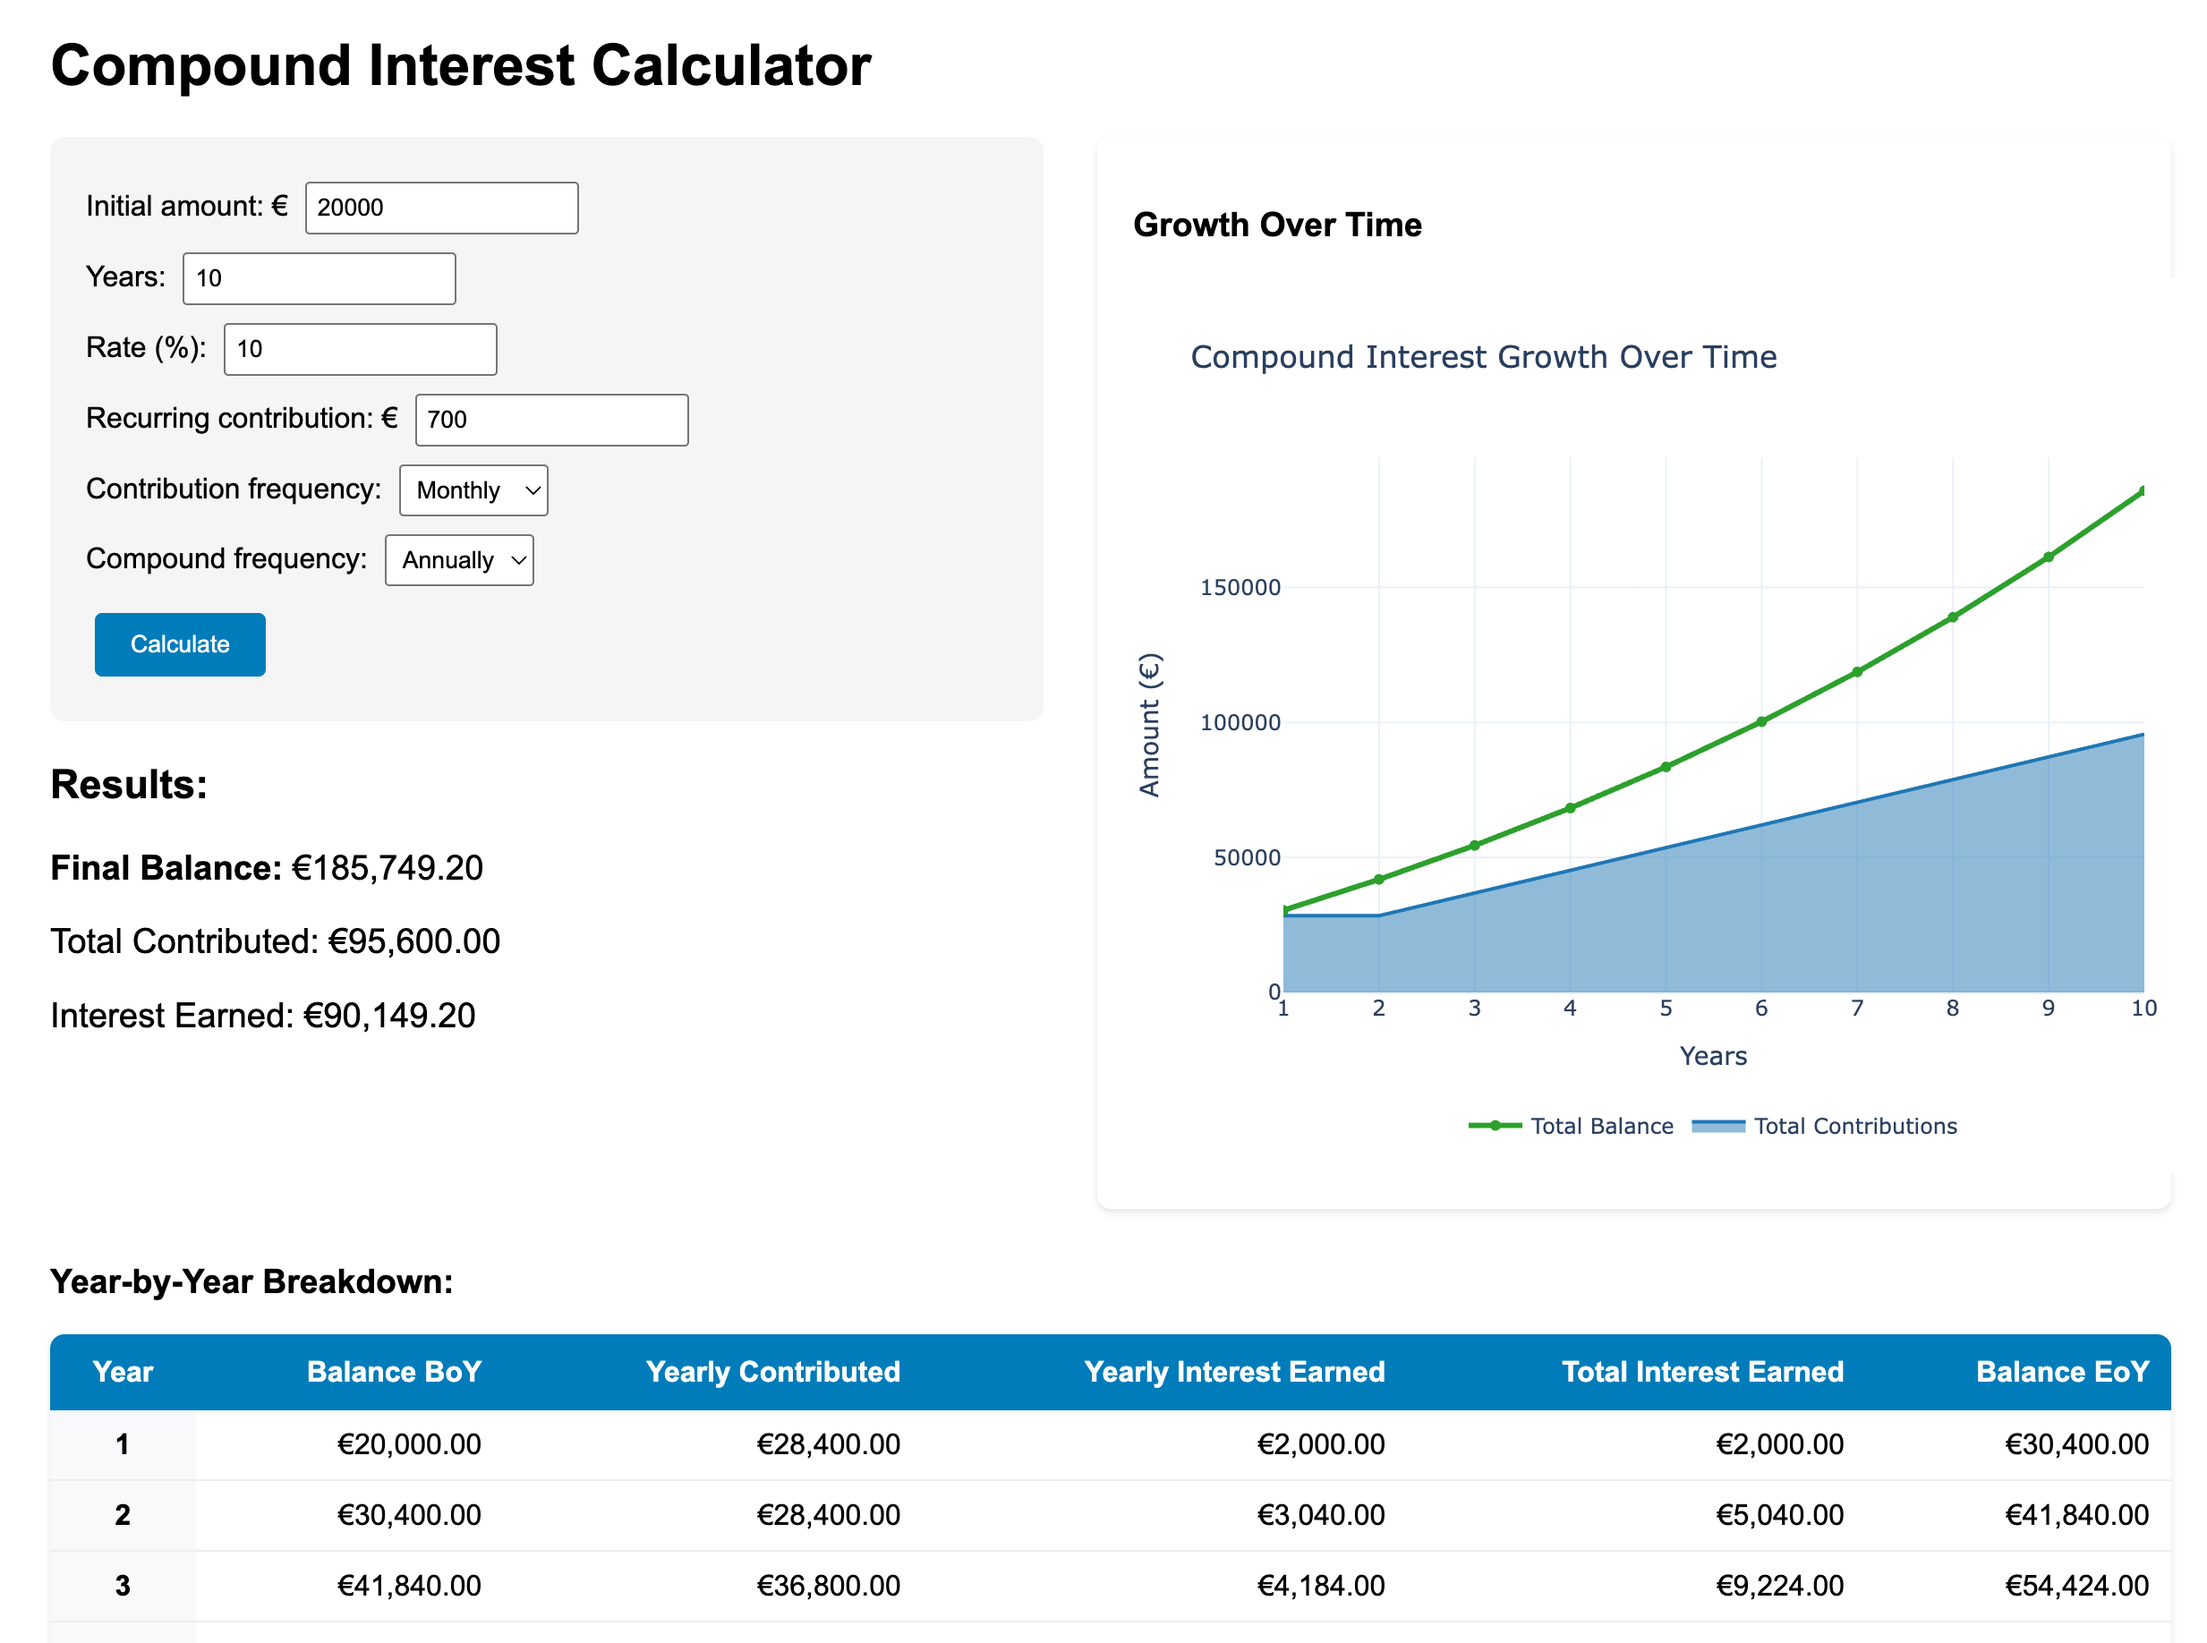
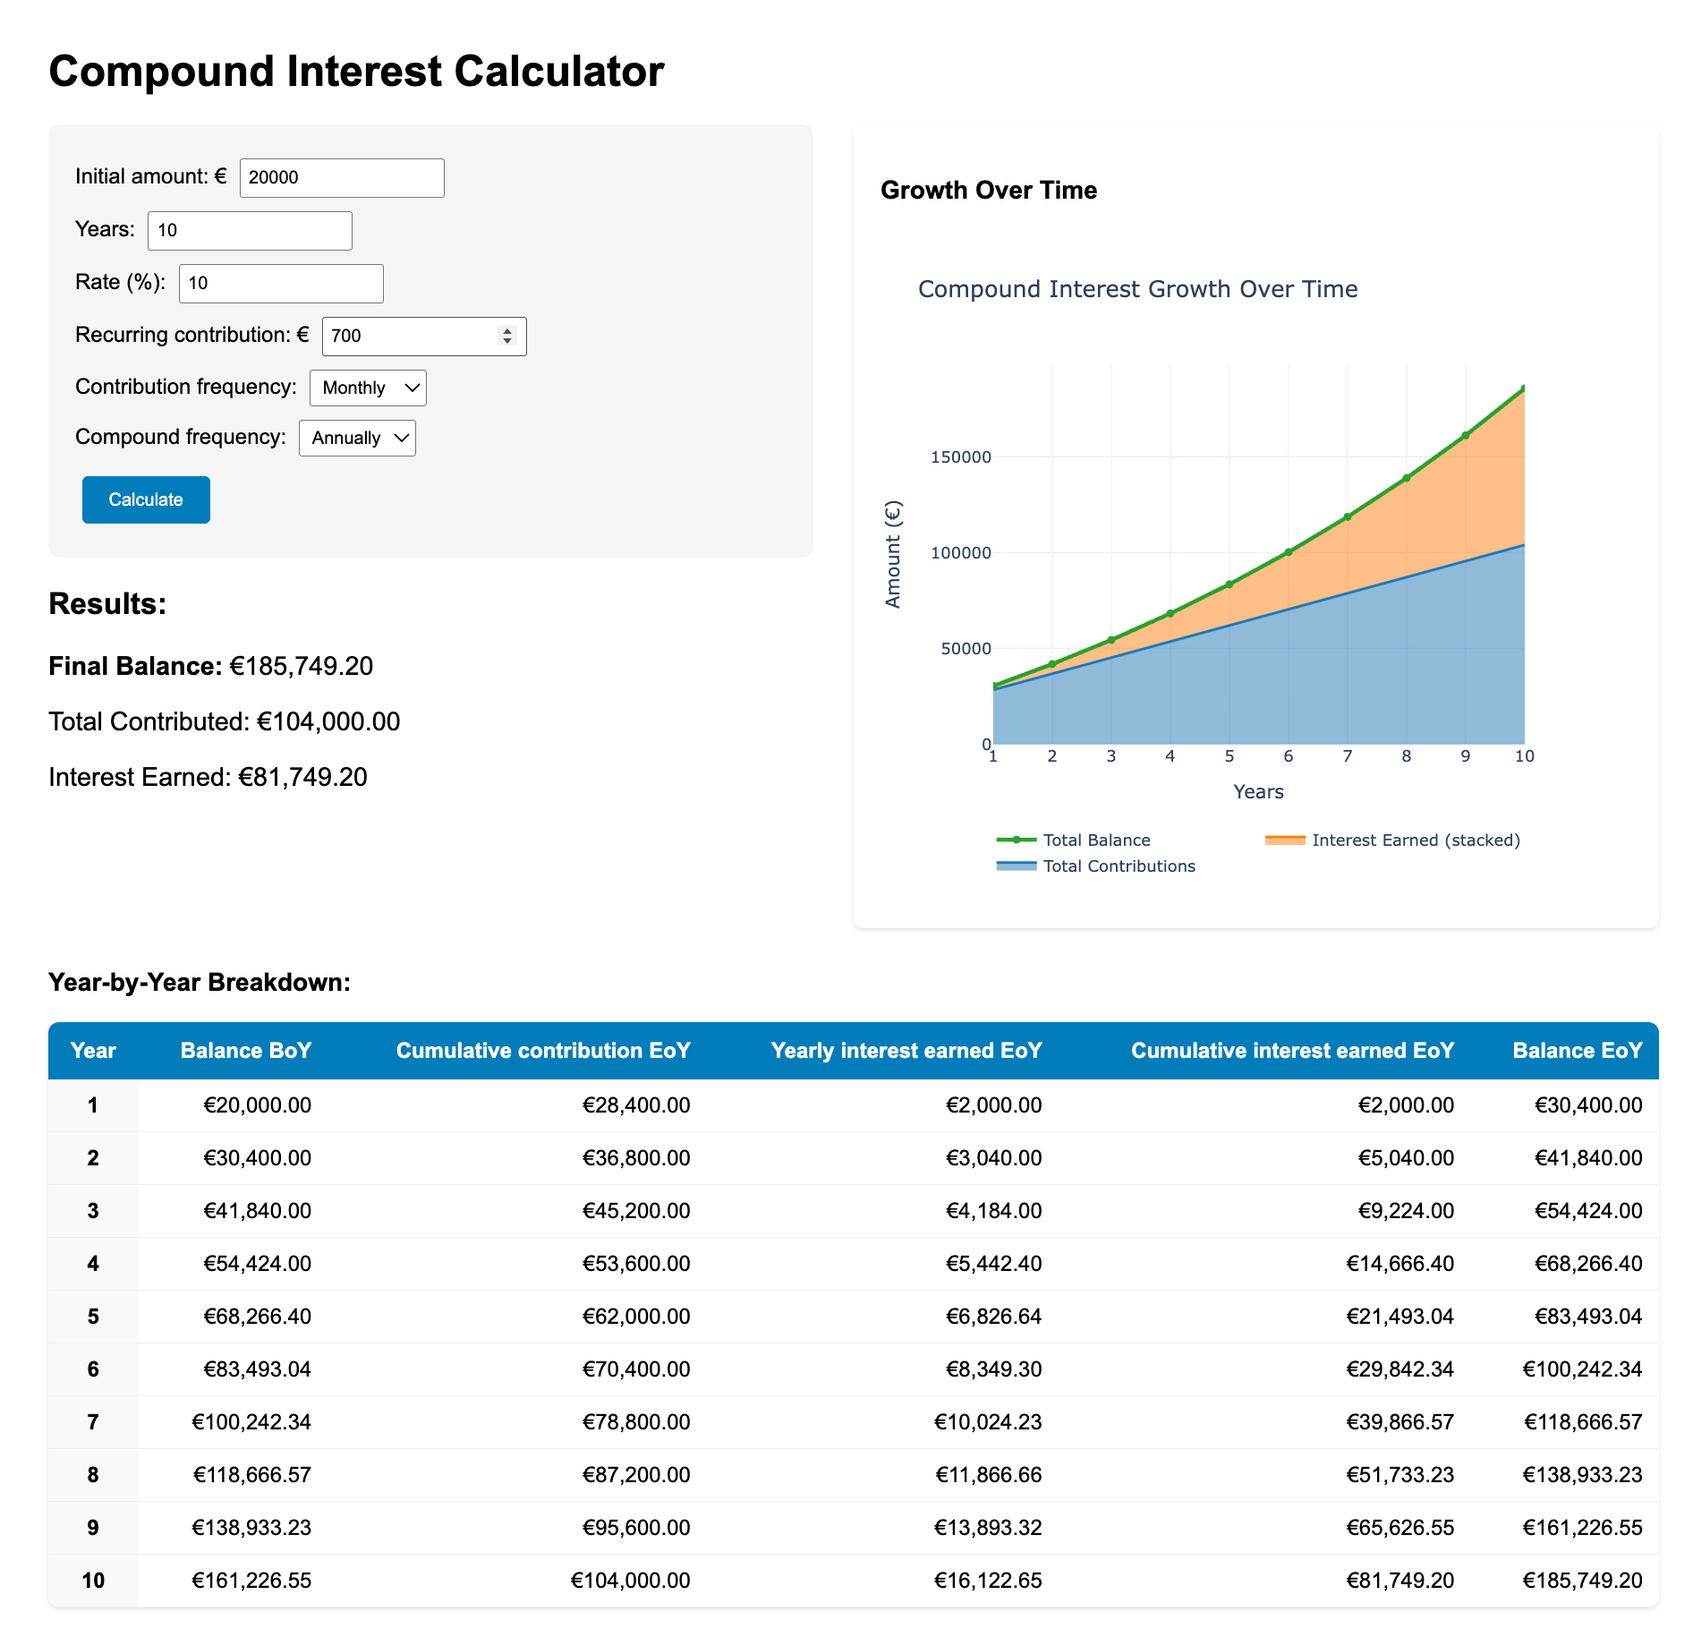
fix cumulative contribution and interest calculations.

diff --git a/app/app.py b/app/app.py
@@ -119,9 +119,9 @@ HTML = """
                 <tr>
                     <th>Year</th>
                     <th>Balance BoY</th>
-                    <th>Yearly Contributed</th>
-                    <th>Yearly Interest Earned</th>
-                    <th>Total Interest Earned</th>
+                    <th>Cumulative contribution EoY</th>
+                    <th>Yearly interest earned EoY</th>
+                    <th>Cumulative interest earned EoY</th>
                     <th>Balance EoY</th>
                 </tr>
             </thead>
@@ -205,7 +205,7 @@ def calculator():
         balance_eoy_data = [balance_end_of_year]
         
 
-        total_contributed = P
+        total_contributed = contributed_data[-1]
         # Calculate for each year
         for year_i in range(2, total_years + 1):
 
@@ -223,8 +223,8 @@ def calculator():
             balance_boy_data.append(balance_begining_of_year)
             contributed_data.append(total_contributed)
             yearly_interest_data.append(yearly_interest_earned)
-            balance_eoy_data.append(balance_end_of_year)
             total_interest_data.append(total_interest_data[-1] + yearly_interest_earned)
+            balance_eoy_data.append(balance_end_of_year)
 
         final_balance = balance_eoy_data[-1]
         final_interest = balance_eoy_data[-1] - total_contributed
@@ -259,16 +259,37 @@ def calculator():
             mode='lines',
             name='Total Contributions',
             line=dict(color='#1f77b4'),
-            fill='tonexty'
+            fill='tonexty',
+            stackgroup='one',
         ))
         
+        # Option A — stacked area: put contributions and interest in the same stackgroup so they stack
+        # (both this trace and the 'Total Contributions' trace should use the same stackgroup)
+        fig.add_trace(go.Scatter(
+            x=year_data,
+            y=total_interest_data,
+            mode='lines',
+            name='Interest Earned (stacked)',
+            line=dict(color='#ff7f0e'),
+            fill='tonexty',
+            stackgroup='one',
+            fillcolor='rgba(255,127,14,0.5)'
+        ))
+
+        # Option B — render interest visually "on top" of the Total Balance line:
+        # Plotly draws traces in the order they are added; to have the interest trace
+        # appear above the 'Total Balance' trace you must add it after that trace.
+        # Move the following block so it comes after the fig.add_trace(...) for 'Total Balance':
+        #
         # fig.add_trace(go.Scatter(
         #     x=year_data,
-        #     y=interest_data,
+        #     y=yearly_interest_data,
         #     mode='lines',
-        #     name='Interest Earned',
-        #     line=dict(color='#ff7f0e'),
-        #     fill='tonexty'
+        #     name='Interest Earned (on top)',
+        #     line=dict(color='#ff7f0e', width=3),
+        #     fill='tozeroy',
+        #     fillcolor='rgba(255,127,14,0.25)',
+        #     opacity=0.9
         # ))
         
         fig.add_trace(go.Scatter(

diff --git a/README.md b/README.md
@@ -32,7 +32,7 @@ Screenshot of the calculator UI (form, chart and breakdown table).
 
 ## Prerequisites
 
-- Python 3.8+ (tested with 3.11/3.12)
+- Python 3.11+ (tested with 3.13)
 - pip
 - For Docker deployment: Docker and Docker Compose (optional)
 
